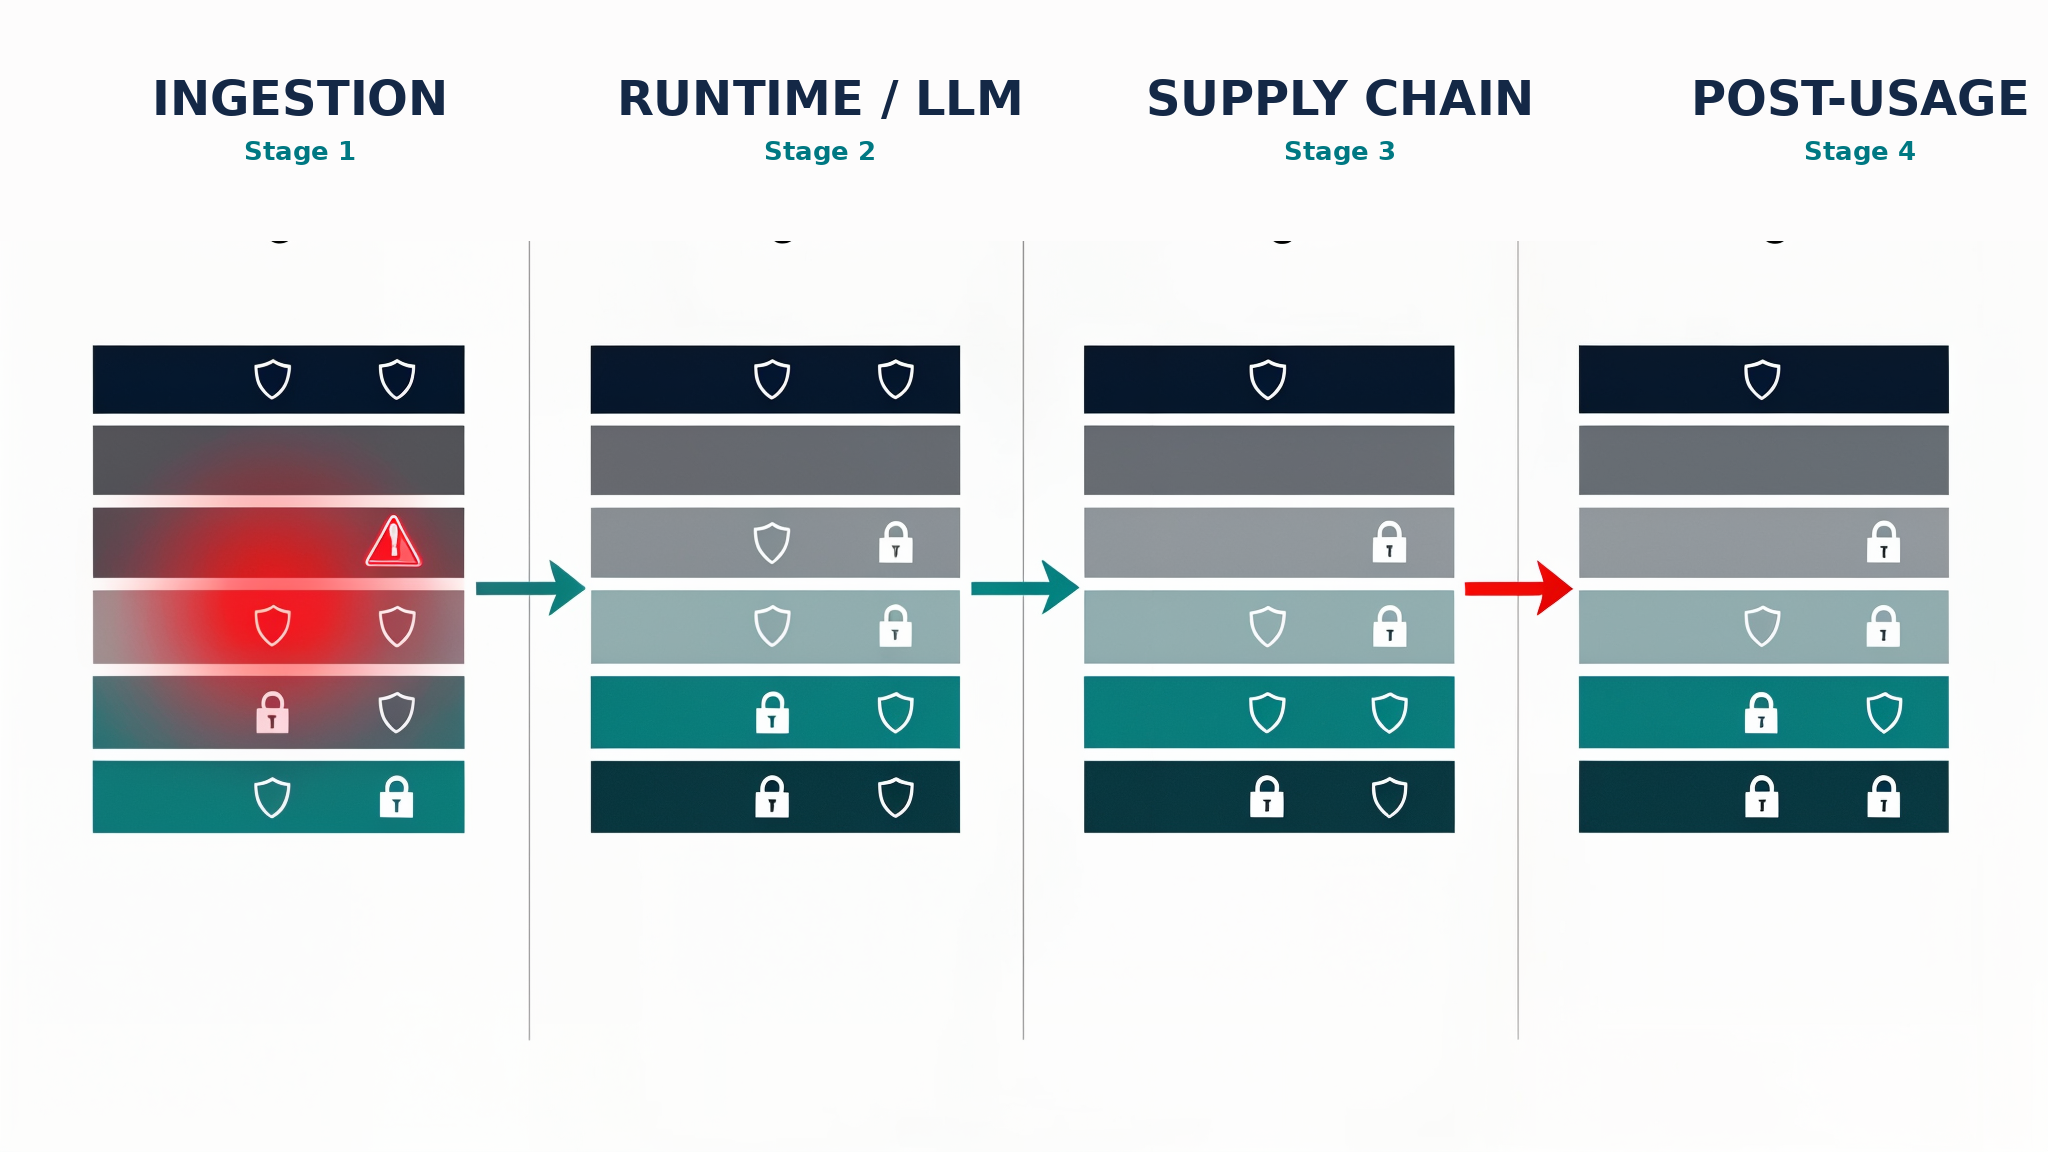
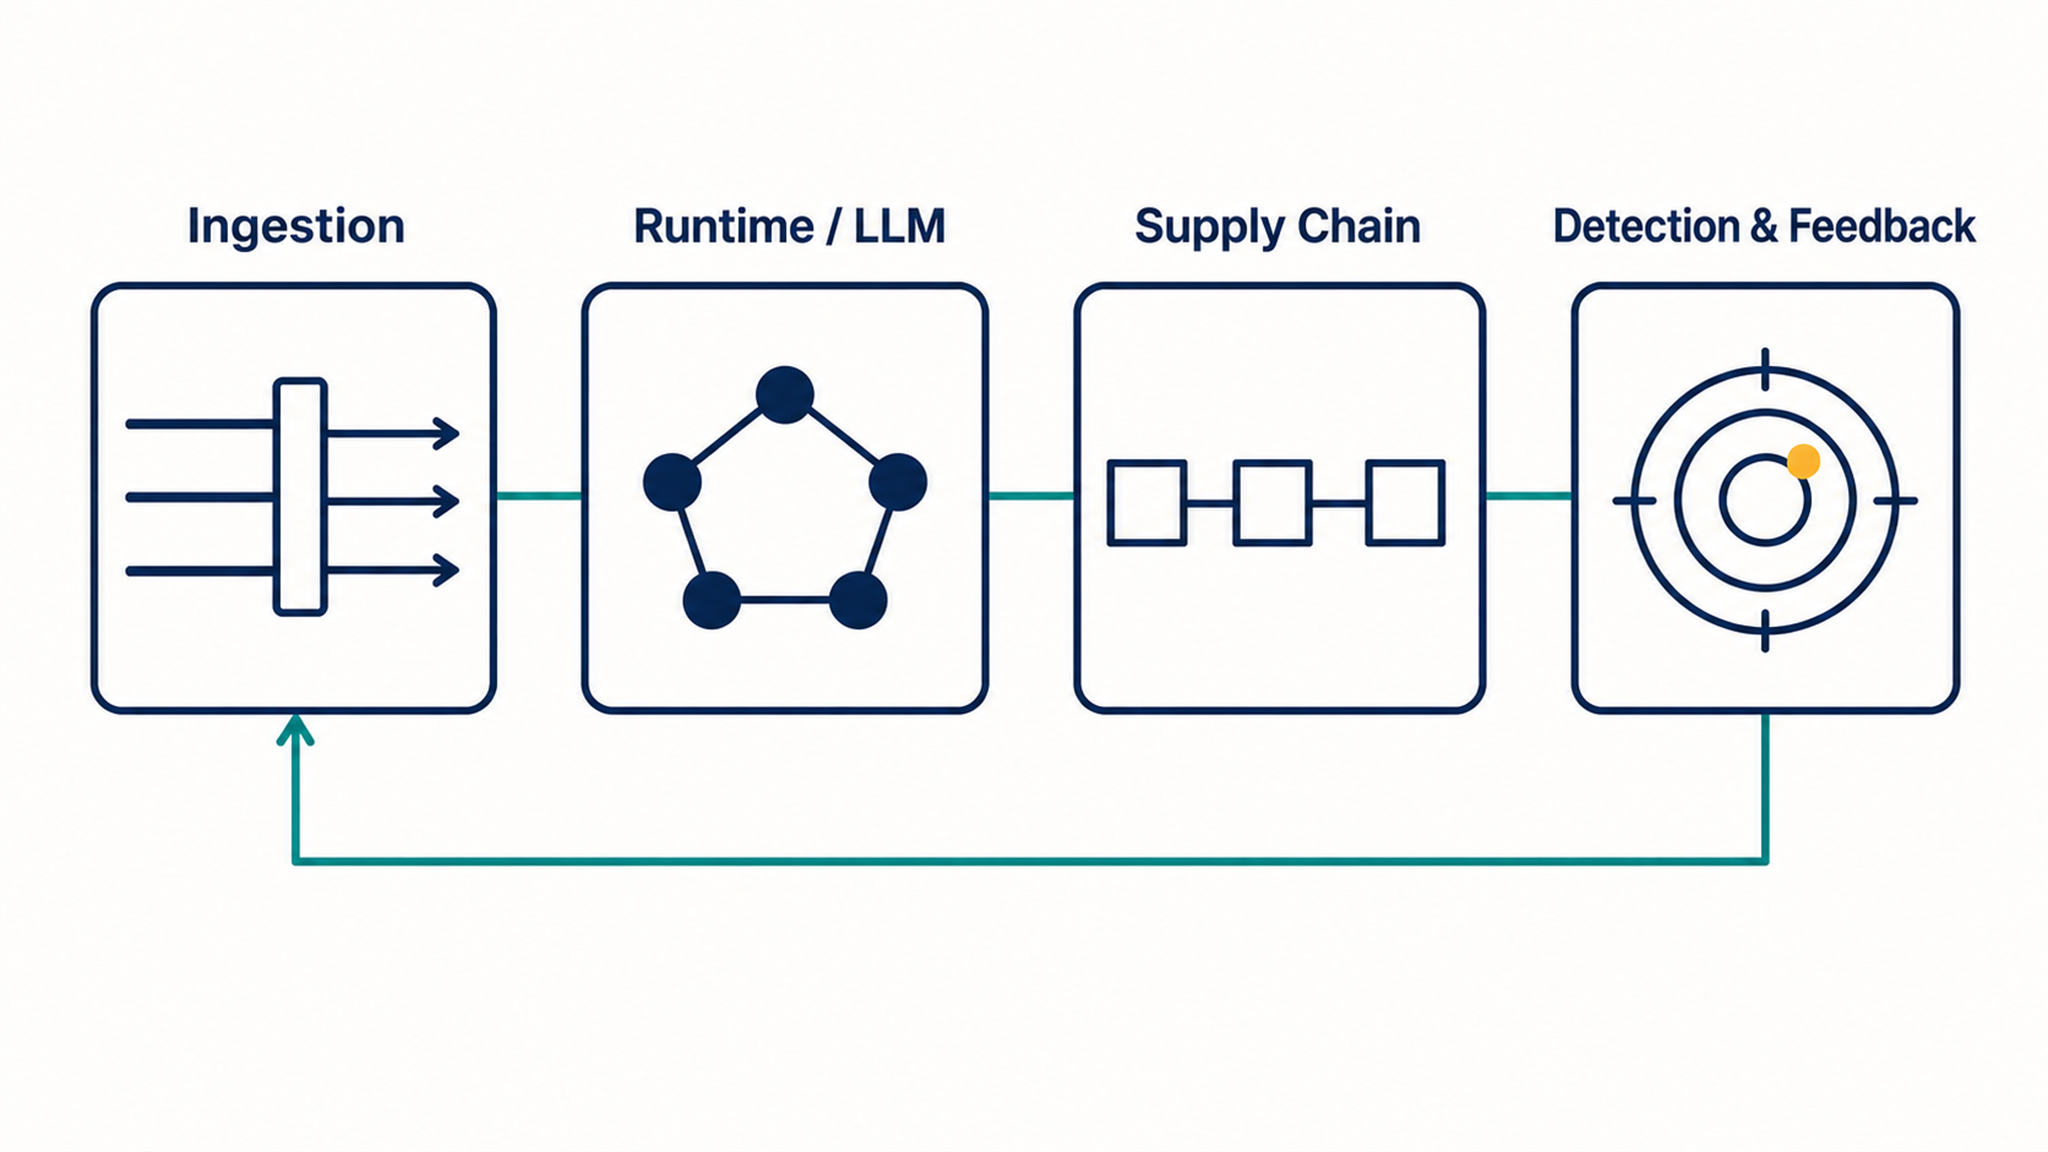
Update images for article and architecture

diff --git a/architecture.md b/architecture.md
@@ -69,11 +69,22 @@ Risk and control components are annotated with the applicable OWASP GenAI LLM To
 
 ![C4 Level 3 — Private-data exposure controls across AI surfaces](04-data-exposure-controls.png)
 
-## Visual summary (LinkedIn assets)
+## Visual summary (LinkedIn banner)
 
-The staged-controls visual below captures the time-series / layered thesis of the article:
-private data passes through **Ingestion → Runtime/LLM → Supply Chain → Post-Usage**, and a
-leak that starts at ingestion is only contained if every later layer holds.
+The banner reduces the architecture to four labeled, connected visual layers:
+
+1. **Ingestion** — incoming data passes through a controlled entry point.
+2. **Runtime / LLM** — the application processes data inside the model boundary.
+3. **Supply chain** — linked models, providers, dependencies, and data sources form the
+   delivery chain.
+4. **Detection and feedback** — monitoring observes residual exposure and feeds findings
+   back into the controls.
+
+The single connecting line emphasizes that these are not isolated safeguards. A weakness
+in an earlier layer propagates forward, while monitoring must feed improvements back into
+ingestion and runtime controls. The labels identify the lifecycle stages, while the
+minimal symbols keep the image suitable for an article banner; the C4 diagrams remain
+the authoritative technical views.
 
 ![LLM private-data control layers across the AI lifecycle](linkedin-c4-layers.png)
 
